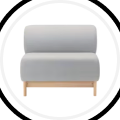
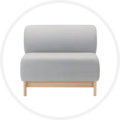
fix: 가구 비활성 thumbnail + badge height 고정
가구·수납 비활성 상태 thumbnail 새로 다운로드
- 이전 PNG에 active wrapper의 검정 border가 들어있어 outline 잔존
- figma 8615:15596 (비활성 노드) 다운로드로 교체

badge 모바일에서 height 깨지는 이슈:
- .oneday-badge에 min/max-height 24 명시
- line-height 16 → 24 (높이 매칭으로 텍스트 가운데 정렬 안정)
- flex-shrink: 0, box-sizing: border-box
- 모바일 미디어쿼리에도 !important로 강제

diff --git a/bigpromo-event.html b/bigpromo-event.html
@@ -318,14 +318,18 @@ body {
 .oneday-badge {
   display: inline-flex; align-items: center; justify-content: center;
   height: 24px;
+  min-height: 24px;
+  max-height: 24px;
   padding: 0 8px;
   border-radius: 4px;
   font-family: Pretendard, sans-serif;
   font-size: 12px;
-  line-height: 16px;
+  line-height: 24px;
   font-weight: 500;
   letter-spacing: -0.3px;
   white-space: nowrap;
+  box-sizing: border-box;
+  flex-shrink: 0;
 }
 .oneday-badge.solid {
   background: var(--foreground);
@@ -1325,6 +1329,17 @@ body {
   }
   .cal-title { flex: 1 1 auto !important; }
   .live-cal-header .box-button { flex-shrink: 0 !important; margin-left: auto !important; }
+
+  /* badge 모바일에서도 높이 24 고정 */
+  .oneday-badge {
+    height: 24px !important;
+    min-height: 24px !important;
+    max-height: 24px !important;
+    line-height: 24px !important;
+    padding: 0 8px !important;
+    flex-shrink: 0 !important;
+    box-sizing: border-box !important;
+  }
 
   /* 가구데이 (oneday) — .oneday-cal에 양쪽 padding 16 직접 적용 */
   .oneday-cal {